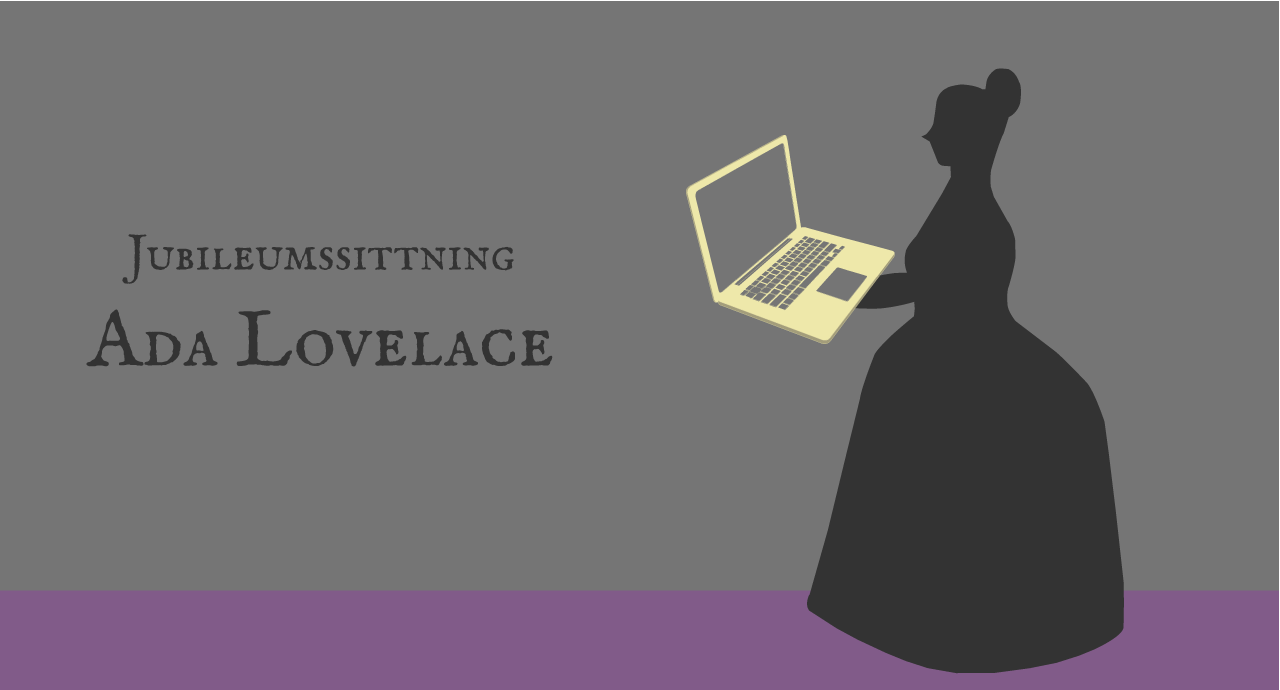
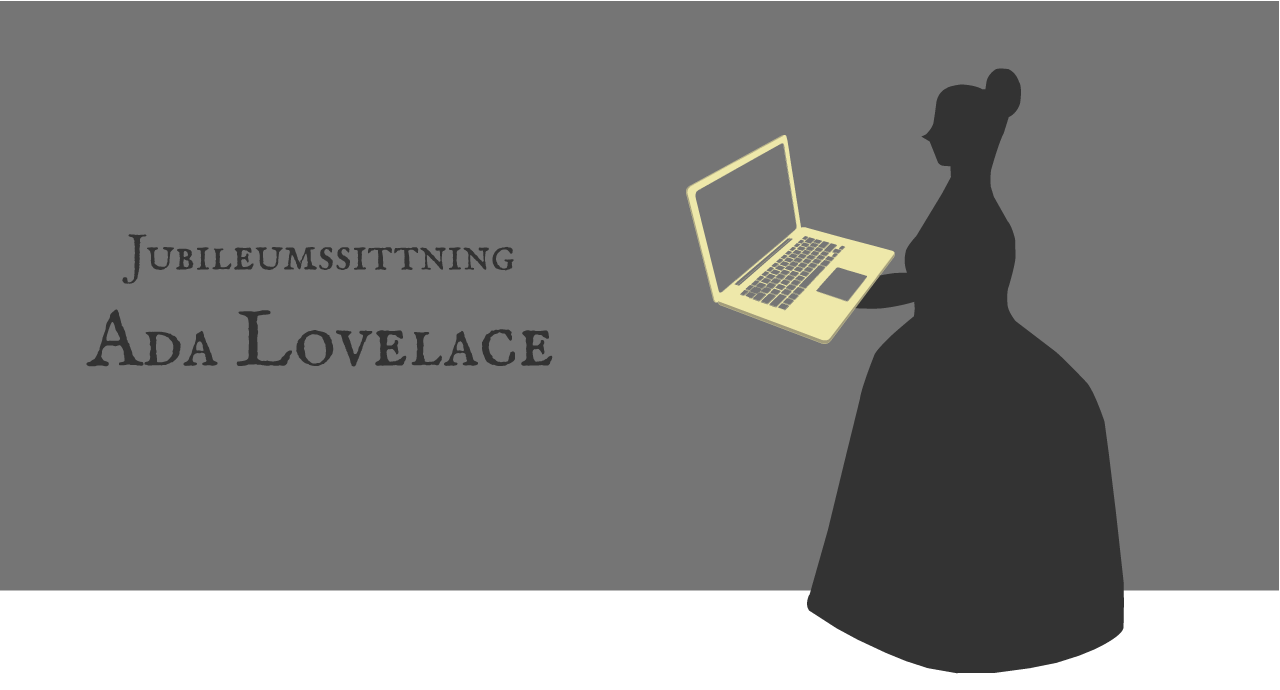
vit

Changed region(s): [[0.0, 0.8522, 1.0, 1.0]]

diff --git a/hem.css b/hem.css
@@ -1,13 +1,18 @@
 body{
 background-color: #757575;
 margin:0px;
-font-family: ‘Lucida Sans Unicode’, ‘Lucida Grande’, sans-serif;
+font-family: "Avenir Next";
 }
 p{
 	margin:0;
 }
 a{
 	color: #ffffff;
+}
+h1{
+	margin: 0;
+	font-size: 5em;
+
 }
 
 #menuContainer{
@@ -30,7 +35,7 @@ a{
 	height: auto;
 
 	margin: 0;
-	background-color: #815B89;
+	background-color: #ffffff;
 }
 #header img{
 	width:100%;
@@ -50,7 +55,14 @@ a{
 #sittning{
 	height:30%;
 	width:100%;
-	background-color: #815B89;
+	background-color: #ffffff;
+}
+#rubrik{
+	height:10%;
+	width: 100%;
+	background-color: #ffffff;
+	margin:0;
+	text-align: center;
 }
 #sittningv{
 	background-image: url("pics/träd.png");
@@ -59,13 +71,13 @@ a{
 	background-size: 80%;
 	margin-top: 1%;
 	margin-bottom: 2%;
-	height: 100%;
+	height: 90%;
 	width: 50%;
 	float: left;
 
 }
 #sittningh{
-	height: 100%;
+	height: 90%;
 	width: 50%;
 	float: left;
 }
@@ -73,7 +85,7 @@ a{
 #ada{
 	height:18%;
 	width:100%;
-	background-color: none;
+	background-color: #815B89;
 }
 #sponsors{
 	height:13%;

diff --git a/Hem.html b/Hem.html
@@ -42,7 +42,7 @@
 
 
 
-      <p id="section1">Section 2</p>
+      <p id="section1"></p>
 
   <div id="header">
 <img src="pics/Header.png" alt="Smiley face">
@@ -51,8 +51,12 @@
 
 
     <div id="sittning">
+      <div id="rubrik">
+            <h1>Sittning</h1>
+      </div>
+
           <div id="sittningv">
-        <p id="section2">Section 2</p>
+        <p id="section2"></p>
   </div>
       <div id="sittningh">
     
@@ -62,14 +66,14 @@
 
 
       <div id="ada">
-              <p id="section3">Section 3</p>
+              <p id="section3"></p>
       </div>
 
       <div id="sponsors">
-              <p id="section4">Section 4</p>
+              <p id="section4"></p>
       </div>  
       <div id="contacts">
-        <p id="section5">Section 5</p>
+        <p id="section5"></p>
       </div>
     </div>
   </body>
